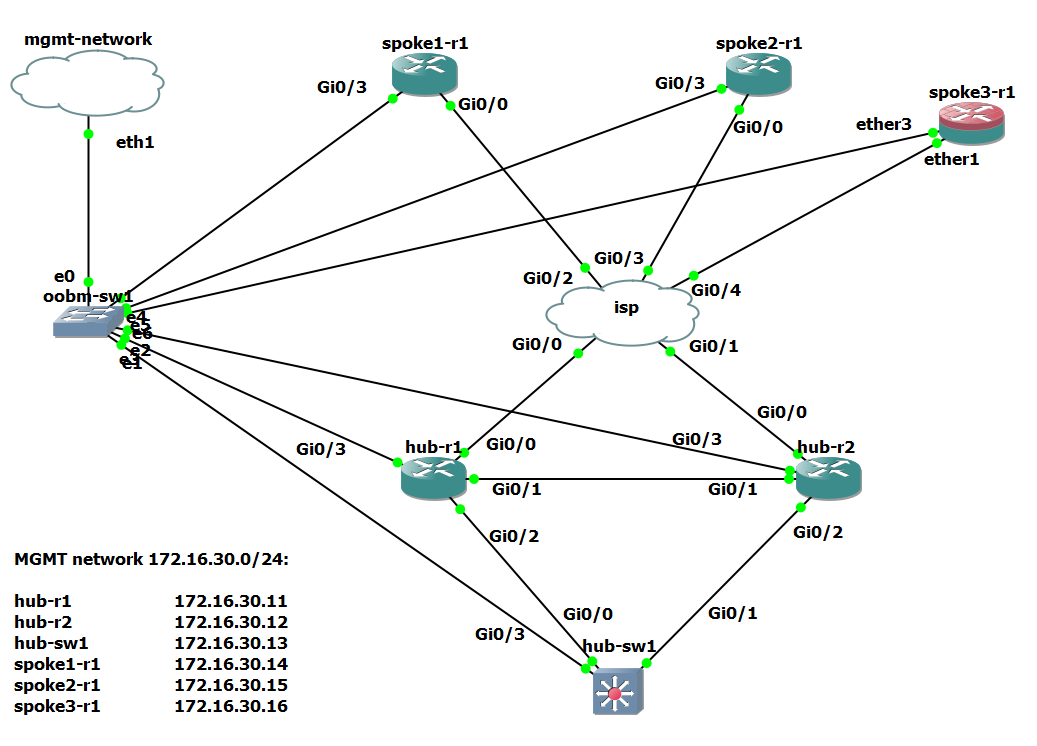
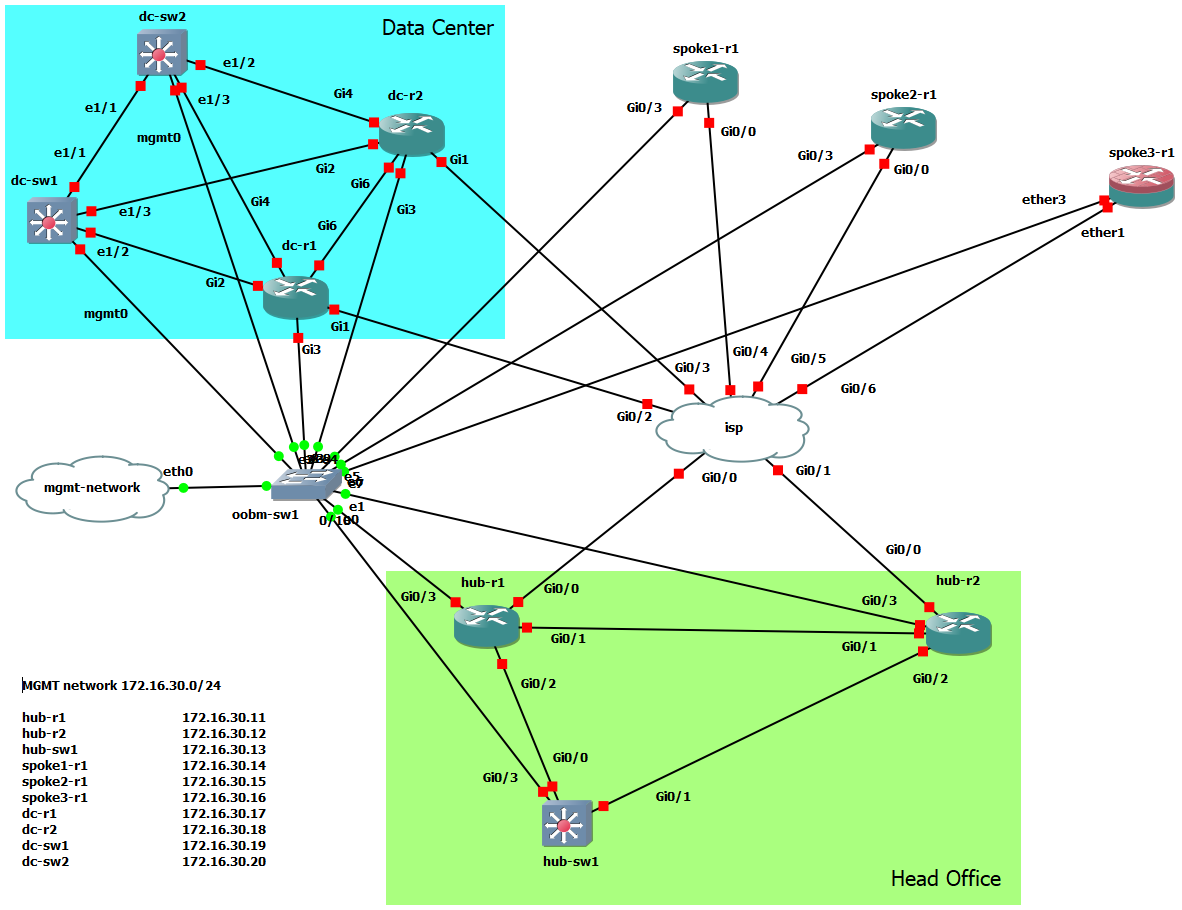
Added more devices to lab

diff --git a/lab-1/README.md b/lab-1/README.md
@@ -2,9 +2,10 @@
 This lab were created using GNS3 application.
 
 ## Images used
-### 1. Cisco L3 vios-adventerprisek9-m.vmdk.SPA.156-2.T
+### 1. Cisco L3 vios-adventerprisek9-m.vmdk.SPA.156-2.T csr1000v-universalk9.16.12.01a
 ### 2. Cisco L2 vios_l2-adventerprisek9-m.vmdk.SSA.152-4.0.55.E
-### 3. Mikrotik chr-6.41.4
+### 3. Cisco NX-OS nxosv.9.3.1
+### 4. Mikrotik chr-6.45.6
 
 ## Topology
 You can find network topology scheme in topology.png file under img folder:
